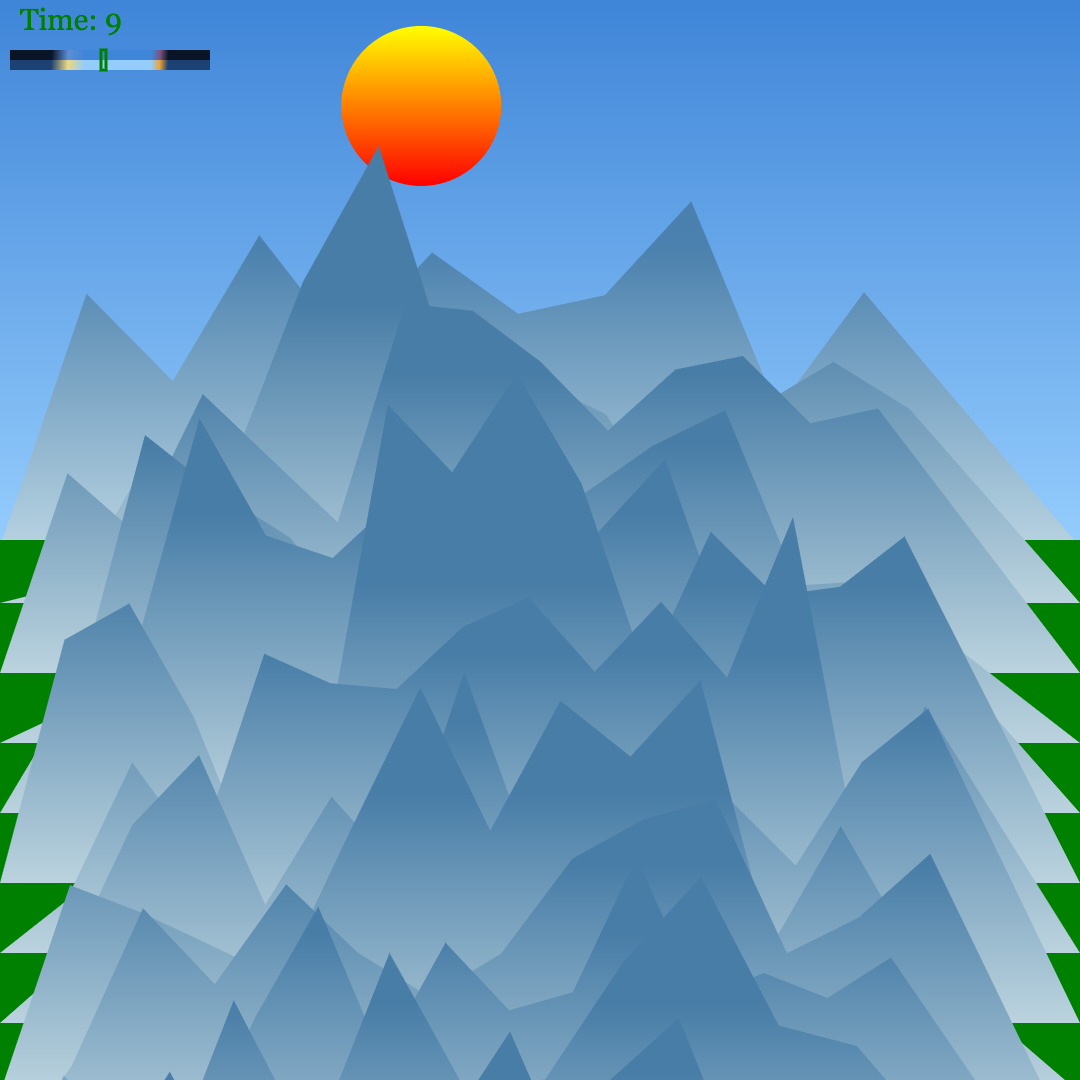
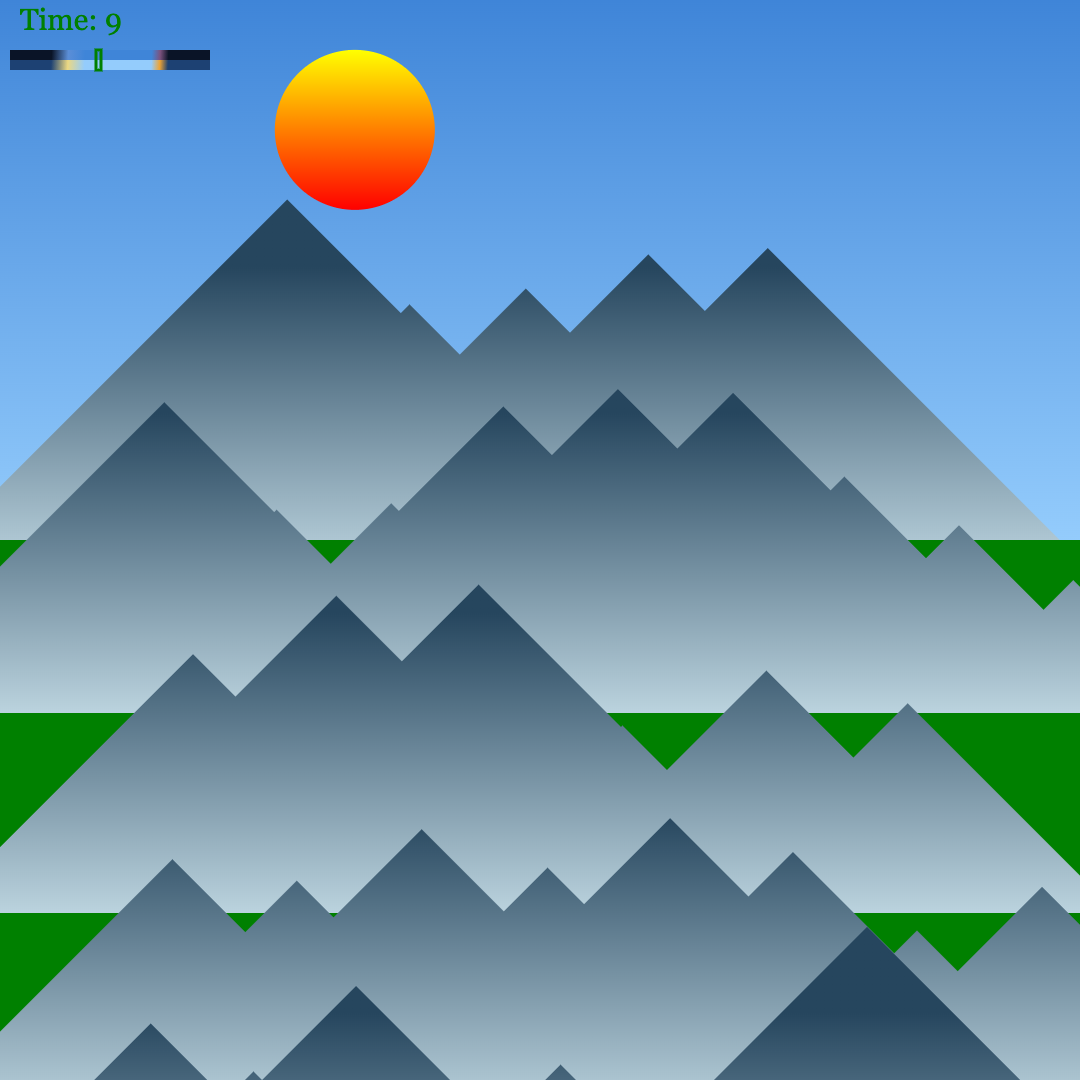
Added sketch mountains

diff --git a/sketches/sketch-daynight.js b/sketches/sketch-daynight.js
@@ -12,6 +12,8 @@ const params = {
   time: 7,
   timeAcceleration: 0.05,
   timeLimit: 20,
+  skylineInterval: 200,
+  skylineSpeed: 20,
   animate: true,
 };
 
@@ -22,9 +24,9 @@ let ct = 0; // current time
 let skyWidth = params.timeLimit * 10;
 let skyHeight = 20;
 
-let skylineInterval = 70;
 let skylineStep = 0;
 let skylines = [];
+let skylinesCount = 6;
 
 const generateSkyImage = () => {
   // Create 2 gradients
@@ -97,7 +99,11 @@ const getSkyData = (skyImage) => {
 const sketch = ({ context: ctx, width, height }) => {
   cx = width * 0.5;
   cy = height * 0.5;
-  
+
+  skylines = [...Array(10)].map(() => {
+    return generateSkyline(width, height);
+  });
+
   return ({ context: ctx, width, height }) => {
     if (params.animate) {
       ct += params.timeAcceleration;
@@ -179,59 +185,51 @@ const drawSea = (ctx, time) => {
 
 };
 
+const drawSkyline = (ctx, skyline, addAlpha) => {
+  ctx.translate(0, params.skylineInterval);
+  ctx.lineWidth = 3;
+  for (let i = 0; i < skyline.length; i++) {
+    ctx.beginPath();
+    ctx.fillStyle = mountinesGradient(ctx, 300, addAlpha);
+    const element = skyline[i];
+    ctx.moveTo(element[0], element[1]);
+    ctx.lineTo(element[0] + element[1], 0);
+    ctx.lineTo(element[0] - element[1], 0);
+    ctx.closePath();
+    ctx.fill();
+  }
+}
+
 const generateSkyline = (width, height) => {
   // Generate mountains
-  let nodes = [[0.0, 0.0]];
-  let stepsCount = random.range(10, 15);
-  let step = width / (stepsCount + 2);
+  let nodes = [];
+  let stepsCount = random.range(7, 11);
+  let step = width / stepsCount;
   for (let index = 1; index <= stepsCount; index++) {
-    let x = step * index;
-    // let y = random.noise1D(index); // get value
+    let x = step * index + 50 - random.gaussian() ; 25;
     let y = random.gaussian();
     y *= 85; // add amplitude
     y = y - (Math.sqrt(width * 0.5 * width * 0.5 - (x - width * 0.5) * (x - width * 0.5))) * 0.5; // correct height to be higher closer to center
     y = y * -Math.sign(y);
     nodes.push([x, y]);
   }
-  nodes.push([width, 0.0]);
   return nodes;
 };
 
-const drawSkyline = (ctx, skyline) => {
-  ctx.translate(0, skylineInterval);
-  ctx.lineWidth = 3;
-  ctx.beginPath();
-  ctx.moveTo(0, 0);
-  for (let i = 0; i < skyline.length; i++) {
-    const element = skyline[i];
-    ctx.lineTo(element[0], element[1]);
-  }
-  ctx.closePath();
-  ctx.fill();
-}
-
 const drawLand = (ctx, time, width, height) => {
-  let skylineGrad = ctx.createLinearGradient(0, 0, 0, -300);
-  skylineGrad.addColorStop(0, '#bbd3de');
-  skylineGrad.addColorStop(1, '#487da7');
-
-  if (skylines.length == 0) {
-    skylines = [...Array(10)].map(() => {
-      return generateSkyline(width, height);
-    });
-  }
-  skylineStep += 1;
-  if (skylineStep >= skylineInterval) {
-    skylines.unshift(generateSkyline(width, height));
-    skylineStep = 0;
+  if (params.animate) {
+    skylineStep += (params.skylineSpeed * params.timeAcceleration);
+    if (skylineStep >= params.skylineInterval) {
+      skylines.unshift(generateSkyline(width, height));
+      skylineStep = 0;
+      skylines = skylines.slice(0, skylinesCount);
+    }
   }
 
   ctx.save();
   ctx.translate(0, cy);
   ctx.translate(0, -skylineStep);
-  ctx.fillStyle = skylineGrad;
-  ctx.globalAlpha = math.mapRange(skylineStep, 0, skylineInterval, 0, 1);
-  drawSkyline(ctx, skylines[0]);
+  drawSkyline(ctx, skylines[0], false);
   ctx.restore();
   
   ctx.save();
@@ -241,15 +239,25 @@ const drawLand = (ctx, time, width, height) => {
   ctx.restore();
 
   ctx.save();
-  ctx.translate(0, cy - skylineInterval);
+  ctx.translate(0, cy - params.skylineInterval);
   ctx.translate(0, skylineStep);
-  ctx.fillStyle = skylineGrad;
   for (let sl = 1; sl < skylines.length; sl++) {
     ctx.globalAlpha = 1;
     const skyline = skylines[sl];
-    drawSkyline(ctx, skyline);
+    drawSkyline(ctx, skyline, false);
     }
   ctx.restore();
+};
+
+const mountinesGradient = (ctx, height, addAlpha) => {
+  let skylineGrad = ctx.createLinearGradient(0, 0, 0, -height);
+  skylineGrad.addColorStop(0, '#bbd3de');
+  skylineGrad.addColorStop(1, '#26465e');
+  ctx.fillStyle = skylineGrad;
+  if (addAlpha) {
+    ctx.globalAlpha = math.mapRange(skylineStep, 0, params.skylineInterval, 0, 1);
+  }
+  return skylineGrad;
 };
 
 const drawDebugData = (ctx, time, width, height) => {

diff --git a/sketches/sketch-mountains.js b/sketches/sketch-mountains.js
@@ -1,0 +1,155 @@
+const canvasSketch = require('canvas-sketch');
+const math = require('canvas-sketch-util/math');
+const random = require('canvas-sketch-util/random');
+const Tweakpane = require('tweakpane');
+
+const settings = {
+  dimensions: [ 1080, 1080 ],
+  animate: 'true',
+};
+
+const params = {
+  time: 7,
+  timeAcceleration: 0.05,
+  timeLimit: 20,
+  skylineInterval: 200,
+  skylineSpeed: 20,
+  animate: true,
+};
+
+let cx = 0; // spin point x
+let cy = 0; // spin point y
+let ct = 0; // current time
+
+let skylineStep = 0;
+let skylines = [];
+let skylinesCount = 6;
+
+const sketch = ({ context: ctx, width, height }) => {
+  cx = width * 0.5;
+  cy = height * 0.5;
+  
+  skylines = [...Array(10)].map(() => {
+    return generateSkyline(width, height);
+  });
+
+  return ({ context: ctx, width, height }) => {
+    if (params.animate) {
+      ct += params.timeAcceleration;
+      if (ct > params.timeLimit) {
+        ct = 0;
+      }
+      params.time = ct;
+    } else {
+      ct = params.time;
+    }
+
+    ctx.fillStyle = 'white';
+    ctx.fillRect(0, 0, width, height);
+
+    drawLand(ctx, ct, width, height);
+    drawDebugData(ctx, ct, width, height);
+  };
+};
+
+const drawSkyline = (ctx, skyline, addAlpha) => {
+  ctx.translate(0, params.skylineInterval);
+  ctx.lineWidth = 3;
+  for (let i = 0; i < skyline.length; i++) {
+    ctx.beginPath();
+    ctx.fillStyle = mountinesGradient(ctx, 300, addAlpha);
+    const element = skyline[i];
+    ctx.moveTo(element[0], element[1]);
+    ctx.lineTo(element[0] + element[1], 0);
+    ctx.lineTo(element[0] - element[1], 0);
+    ctx.closePath();
+    ctx.fill();
+  }
+}
+
+const generateSkyline = (width, height) => {
+  // Generate mountains
+  let nodes = [];
+  let stepsCount = random.range(5, 10);
+  let step = width / stepsCount;
+  for (let index = 1; index <= stepsCount; index++) {
+    let x = step * index;
+    let y = random.gaussian();
+    y *= 85; // add amplitude
+    y = y - (Math.sqrt(width * 0.5 * width * 0.5 - (x - width * 0.5) * (x - width * 0.5))) * 0.5; // correct height to be higher closer to center
+    y = y * -Math.sign(y);
+    nodes.push([x, y]);
+  }
+  return nodes;
+};
+
+const drawLand = (ctx, time, width, height) => {
+  if (params.animate) {
+    skylineStep += (params.skylineSpeed * params.timeAcceleration);
+    if (skylineStep >= params.skylineInterval) {
+      skylines.unshift(generateSkyline(width, height));
+      skylineStep = 0;
+      skylines = skylines.slice(0, skylinesCount);
+    }
+  }
+
+  ctx.save();
+  ctx.translate(0, cy);
+  ctx.translate(0, -skylineStep);
+  drawSkyline(ctx, skylines[0], false);
+  ctx.restore();
+  
+  ctx.save();
+  ctx.translate(0, cy); // Horizont
+  ctx.fillStyle = 'green';
+  ctx.fillRect(0, 0, width, cy);
+  ctx.restore();
+
+  ctx.save();
+  ctx.translate(0, cy - params.skylineInterval);
+  ctx.translate(0, skylineStep);
+  for (let sl = 1; sl < skylines.length; sl++) {
+    ctx.globalAlpha = 1;
+    const skyline = skylines[sl];
+    drawSkyline(ctx, skyline, false);
+    }
+  ctx.restore();
+};
+
+const mountinesGradient = (ctx, height, addAlpha) => {
+  let skylineGrad = ctx.createLinearGradient(0, 0, 0, -height);
+  skylineGrad.addColorStop(0, '#bbd3de');
+  skylineGrad.addColorStop(1, '#26465e');
+  ctx.fillStyle = skylineGrad;
+  if (addAlpha) {
+    ctx.globalAlpha = math.mapRange(skylineStep, 0, params.skylineInterval, 0, 1);
+  }
+  return skylineGrad;
+};
+
+const drawDebugData = (ctx, time, width, height) => {
+  ctx.save();
+  ctx.font = "30px Georgia";
+  ctx.fillStyle = 'green';
+  ctx.beginPath();
+  ctx.fillText(`Time: ${Math.round(time)}`, 20, 30);
+  ctx.fill();
+};
+
+const createPane = () => {
+  const pane = new Tweakpane.Pane();
+  let folder;
+
+  folder = pane.addFolder({ title: 'Grid'});
+  folder.addInput(params, 'time', { min: 0, max: params.timeLimit, step: 0.1});
+  folder.addInput(params, 'timeAcceleration', { min: 0.01, max: 0.5, step: 0.01});
+  folder.addInput(params, 'timeLimit', { min: 10, max: 50, step: 1});
+  folder.addInput(params, 'animate');
+
+  folder = pane.addFolder({ title: 'Skyline'});
+  folder.addInput(params, 'skylineInterval', { min: 50, max: 400, step: 25});
+  folder.addInput(params, 'skylineSpeed', { min: 5, max: 50, step: 5});
+}
+
+createPane();
+canvasSketch(sketch, settings);

diff --git a/README.md b/README.md
@@ -7,4 +7,4 @@ Creative coding, generative art
 |sketch 01 - Squares<br /> <img width="200" alt="Squares" src="https://github.com/pavel-ship-it/creative-coding/blob/master/preview/sketch-01.png"> | sketch 02 - Trippy time<br /> <img width="200" alt="Trippy time" src="https://github.com/pavel-ship-it/creative-coding/blob/master/preview/sketch-02.png"> | sketch 02 1 - <a href="https://youtube.com/shorts/8dzQWFkS0dE?feature=share">Trippy time animation</a><br /> <img width="200" alt="Trippy Time animation" src="https://github.com/pavel-ship-it/creative-coding/blob/master/preview/sketch-02.1.png">|
 | sketch 03 - <a href="https://youtube.com/shorts/t4bPVoJ_PKI?feature=share">Connected dots</a><br /><img width="200" alt="Connected dots" src="https://github.com/pavel-ship-it/creative-coding/blob/master/preview/sketch-03.png"> | sketch 04 - <a href="https://youtube.com/shorts/FI0EYWoyCSk?feature=share">Controlled simplex noise</a><br /> <img width="200" alt="Controlled simplex noise" src="https://github.com/pavel-ship-it/creative-coding/blob/master/preview/sketch-04.png"> | sketch bauhaus - <a href="https://youtube.com/shorts/kJGf68Xb_do?feature=share">Bauhaus animation</a><br /> <img width="200" alt="Bauhaus animation" src="https://github.com/pavel-ship-it/creative-coding/blob/master/preview/sketch-bauhaus.png"> |
 | sketch spiral - <a href="https://youtube.com/shorts/7-IZX2ViNiM?feature=share">Spiral</a><br /> <img width="200" alt="Spiral" src="https://github.com/pavel-ship-it/creative-coding/blob/master/preview/sketch-spiral.png">  | Sketch runnung letters - <a href="https://youtube.com/shorts/ydDQ_jVPtew?feature=share">Running letters</a><br /> <img width="200" alt="Running letters" src="https://github.com/pavel-ship-it/creative-coding/blob/master/preview/sketch-05.0.png"> | Sketch pseudographic image - <a href="https://youtube.com/shorts/LCRDs19YoYk?feature=share">Pseudographic image</a><br /> <img width="200" alt="Pseudographic image" src="https://github.com/pavel-ship-it/creative-coding/blob/master/preview/sketch-05.1.png"> |
-|   |   |   |
+| Sketch mountains - <a href="https://youtube.com/shorts/SiUxzYMG0b0?feature=share">Mountains</a><br /> <img width="200" alt="Mountains" src="https://github.com/pavel-ship-it/creative-coding/blob/master/preview/sketch-daynight.png"> |   |   |
